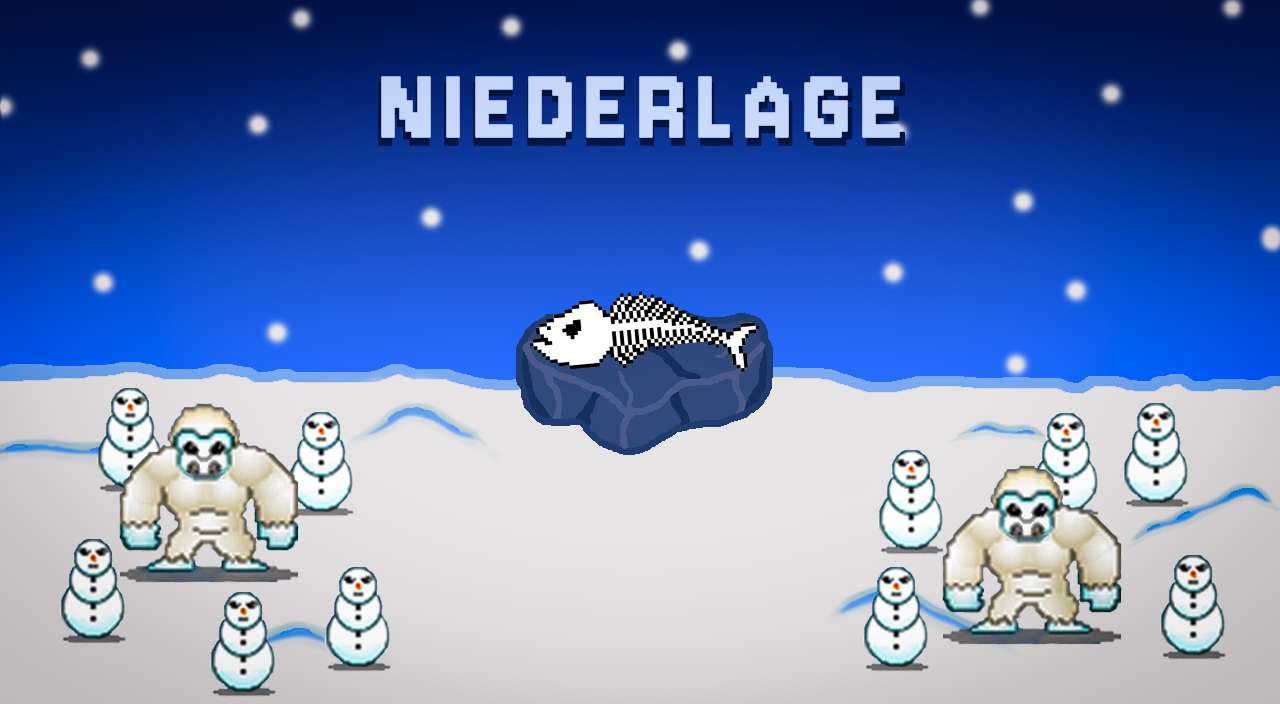
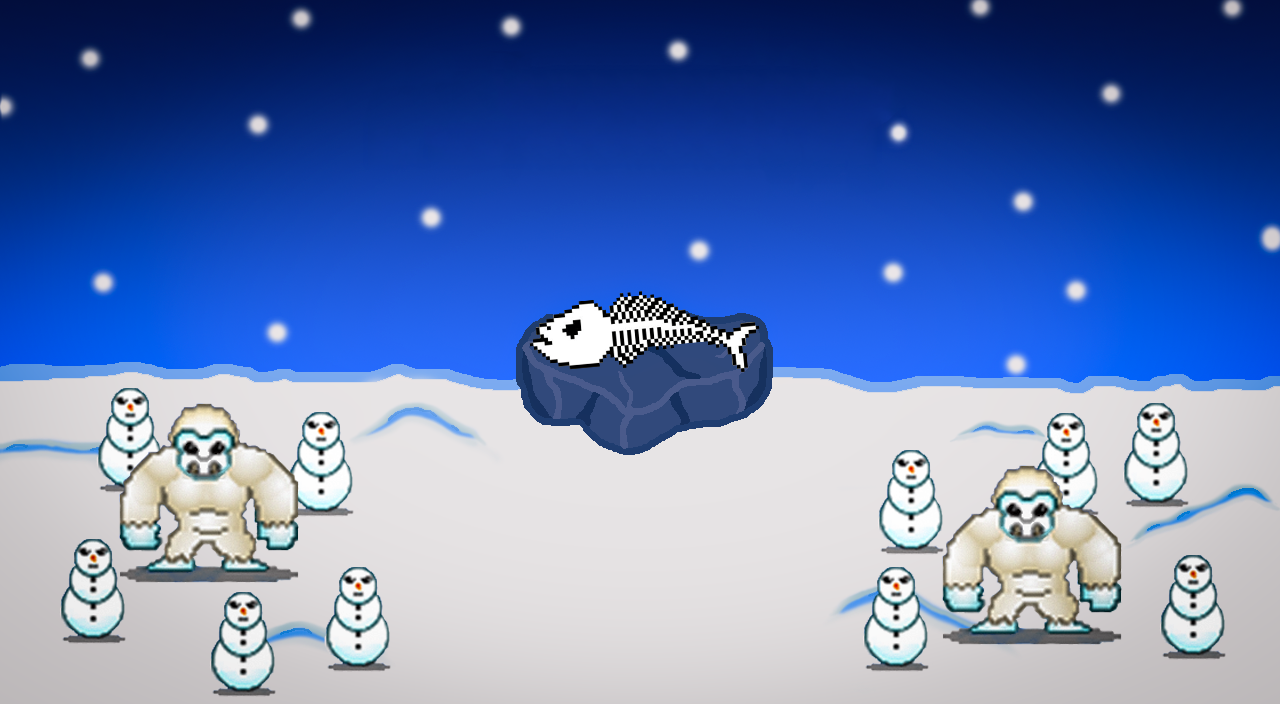
change images, add endscreenTextDrawer, add keybinds to choose language

Changed region(s): [[0.2812, 0.0938, 0.7188, 0.2188]]

diff --git a/js/ui/Ui.js b/js/ui/Ui.js
@@ -35,6 +35,12 @@ class Ui {
 	static lineHeight = 18;
 	static upgradeArrow = null;
 
+	// End screen localization
+	static WinGer = "Gewonnen!";
+	static LoseGer = "Verloren!";
+	static WinEng = "You Win!";
+	static LoseEng = "You Lose!";
+
 	// UI Sounds
 	static buyAudio;
 	static upgradeAudio;
@@ -249,13 +255,26 @@ class Ui {
 			let img;
 			if(this.level.health <= 0) {
 				img = this.loseImg;
+				var endscreenText;
+				if (Languages.language == "German"){
+					endscreenText = Ui.LoseGer;
+				} else {
+					endscreenText = Ui.LoseEng;
+				}
+
 			} else if(this.level.waveCounter >= this.level.waves.length) {
 				img = this.winImg;
+				if (Languages.language == "German"){
+					endscreenText = Ui.WinGer;
+				} else {
+					endscreenText = Ui.WinEng;
+				}
 			} else { console.log("Game has ended but neither condition for a Game Over is met."); }
 			this.gameOverOpacity += duration;
 			if(this.gameOverOpacity < 0) { ctx.globalAlpha = 0; }
 			else { ctx.globalAlpha = this.gameOverOpacity; }
 			ctx.drawImage(img, 0, 0);
+			this.endScreenTextDrawer(ctx, endscreenText);
 			let menuScale = 1;
 			if(hoverButton == 3) {
 				menuScale = 1.1;
@@ -264,8 +283,22 @@ class Ui {
 			ctx.globalAlpha = 1;
 		}
 	}
-	
-	// Philipp:	--------------------------------------------------------------------------------------------------------------------------------------------------------------
+
+	endScreenTextDrawer(ctx, endscreenText) {
+		ctx.save();
+		ctx.shadowColor = '#000000';
+		ctx.shadowBlur = 30;
+		ctx.shadowOffsetX = 8;
+		ctx.shadowOffsetY = 8;
+		ctx.textAlign = 'center';
+		ctx.textBaseline = 'middle';
+		ctx.webkitTextFillStyle = '#ffffff';
+		ctx.font = '160px Pixel';
+		ctx.fillText(endscreenText, this.canvas.width / 2, 150);
+		ctx.restore();
+	}
+
+// Philipp:	--------------------------------------------------------------------------------------------------------------------------------------------------------------
 	// draw bubble
     static drawBubble(ctx, x, y, width, height) {
         const radius = 12;

diff --git a/js/penguinDefense.js b/js/penguinDefense.js
@@ -277,9 +277,12 @@ function closeShop() {
 
 function control(evt) {
 	switch(evt.keyCode) {
-		//case 171: level.waveCounter++; level.money+=75; break;	// +	DEBUG: skip wave
+		//case 171: level.waveCounter++; level.money+=750; break;	// +	DEBUG: skip wave
+		case 76: level.health = 0; break;	// L DEBUG for losescreen
 		case 27: state["paused"] = !state["paused"]; break;	// Esc
-		case 32:	// Space
+		/*case 32: state["inShop"] = true;
+				 shop.isActive = true;
+				 break;	// Space DEBUG for winscreen*/
 		case 83:	// S
 			if(state["inShop"]) { level.startWave(); }
 			else { state["speedup"] = state["speedup"]%3 + 1; break; }
@@ -291,6 +294,8 @@ function control(evt) {
 				shop.display();
 				shop.isActive = true;
 			}
+		case 49: Languages.language = "English"; break;	// 1 English
+		case 50: Languages.language = "German"; break;	// 2 German
 			break;
 		default: console.log("Key " + evt.keyCode + " is not mapped to any action.");
 	}

diff --git a/penguinDefense.html b/penguinDefense.html
@@ -46,7 +46,7 @@
 		<script src="./js/ui/TowerCards.js"></script>
 		<script src="./js/ui/UpgradeCards.js"></script>
 		<script src="./js/ui/Shop.js"></script>
-		<script src="./js/ui/menu.js"></script>
+		<script src="./js/ui/Menu.js"></script>
 		<script src="./js/ui/Ui.js"></script>
 		
 		<!-- Audio -->
@@ -85,7 +85,7 @@
 			<!-- Enemy Sprites -->
 			<img src="./img/enemies/snowman_spritesheet.png" alt="28" id="SNOWMAN_SPRITESHEET"/>
 			<img src="./img/enemies/yeti_spritesheet.png" alt="56" id="YETI_SPRITESHEET"/>
-			<img src="./img/enemies/snowAngel_Spritesheet.png" alt="60" id="SNOW_ANGEL_SPRITESHEET"/>
+			<img src="./img/enemies/snowAngel_spritesheet.png" alt="60" id="SNOW_ANGEL_SPRITESHEET"/>
 			<img src="./img/enemies/iceGolem_spritesheet.png" alt="52" id="ICE_GOLEM_SPRITESHEET"/>
 			
 			<!-- Tileset -->
